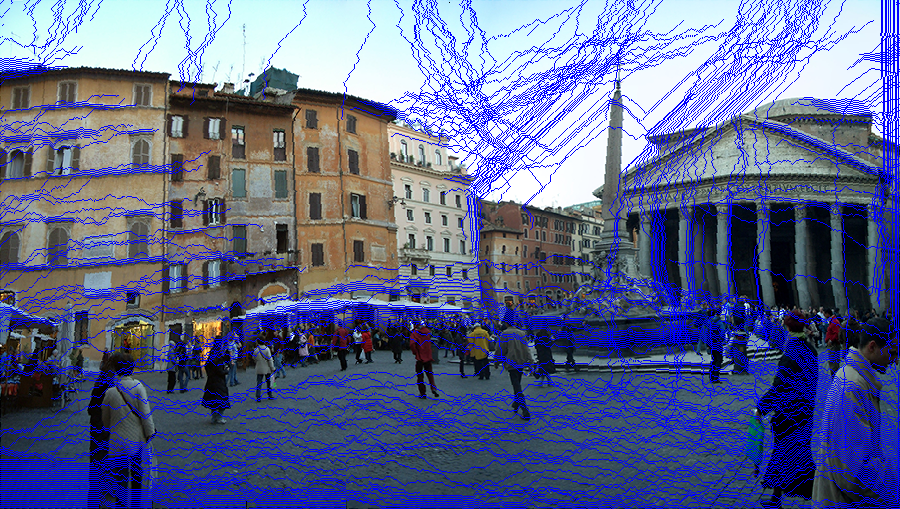
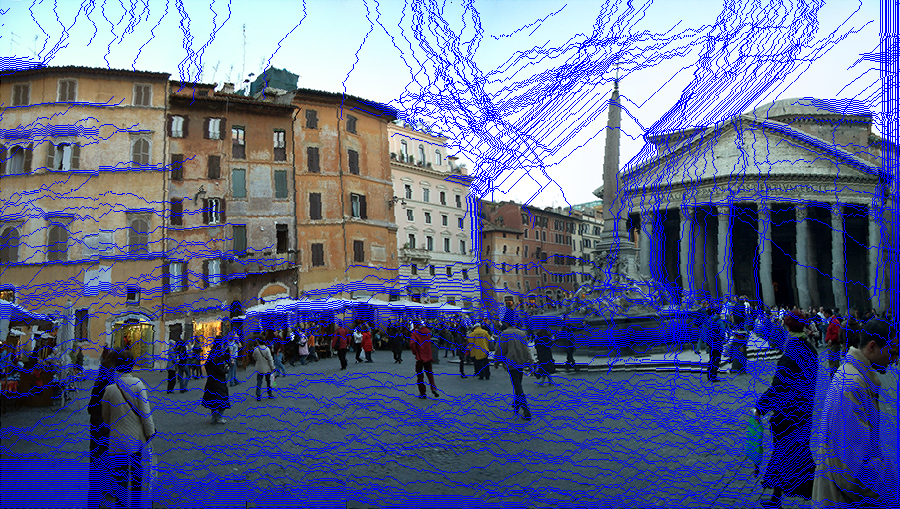
Version to be rewrite

diff --git a/opencv_tutorial/SeamCarving.cpp b/opencv_tutorial/SeamCarving.cpp
@@ -1,5 +1,5 @@
 #include "SeamCarving.h"
-const int MAX_COST = 1e6;
+const int MAX_COST = 1e5;
 
 SeamCarving::SeamCarving(Mat& _image, Mat& _mask) :image(_image), mask(_mask)
 {
@@ -229,6 +229,59 @@ void SeamCarving::calcCost(BoundarySegment boundarySegment)
 	float tempLeftCost, tempUpCost, tempRightCost;
 	int left, right, upLeft, upRight, up;
 	for (int i = begin; i < end + 1; i++) {
+		if (i == 0) {
+			for (int j = 0; j < cols; j++) {
+				neighborIndexArray[j][0] = left;
+				if ((expandMaskArray[i * cols + j] & directionMask) == 0) {
+					left = j;
+				}
+				neighborIndexArray[cols - 1 - j][1] = right;
+				if ((expandMaskArray[i * cols + cols - 1 - j] & directionMask) == 0) {
+					right = cols - 1 - j;
+				}
+			}
+			for (int j = 0; j < cols; j++) {
+				if ((expandMaskArray[i * cols + j] & directionMask) != 0) {
+					continue;
+				}
+				left = neighborIndexArray[j][0];
+				right = neighborIndexArray[j][1];
+				if (left < 0) {
+#ifdef USE_RGB
+						temp = expandImage.at<Vec3b>(i, right) - expandImage.at<Vec3b>(i, left + 1);
+						tempUpCost = abs(temp[0]) + abs(temp[1]) + abs(temp[2]);
+#endif // USE_RGB
+#ifdef USE_GRAY
+						tempUpCost = abs(expandGrayArray[i * cols + right] - expandGrayArray[i * cols + left]);
+#endif // USE_GRAY
+						mArray[i * cols + j] = tempUpCost;
+				}
+				else if (right >= cols) {
+#ifdef USE_RGB
+						temp = expandImage.at<Vec3b>(i, right - 1) - expandImage.at<Vec3b>(i, left);
+						tempUpCost = abs(temp[0]) + abs(temp[1]) + abs(temp[2]);
+#endif // USE_RGB
+#ifdef USE_GRAY
+						tempUpCost = abs(expandGrayArray[i * cols + right] - expandGrayArray[i * cols + left]);
+#endif // USE_GRAY
+						mArray[i * cols + j] = tempUpCost;
+				}
+				else {
+#ifdef USE_RGB
+						temp = expandImage.at<Vec3b>(i, right) - expandImage.at<Vec3b>(i, left);
+						tempUpCost = abs(temp[0]) + abs(temp[1]) + abs(temp[2]);
+#endif // USE_RGB
+#ifdef USE_GRAY
+						tempUpCost = abs(expandGrayArray[i * cols + right] - expandGrayArray[i * cols + left]);
+#endif // USE_GRAY
+						mArray[i * cols + j] = tempUpCost;
+				}
+				if (expandMaskArray[i * cols + j] == 0) {
+					mArray[i * cols + j] += MAX_COST;
+				}
+			}
+			continue;
+		}
 		left = upLeft = -1;
 		right = upRight = cols;
 		for (int j = 0; j < cols; j++) {
@@ -251,11 +304,13 @@ void SeamCarving::calcCost(BoundarySegment boundarySegment)
 		}
 		for (int j = 0; j < cols; j++) {
 			up = j;
+			upLeft = neighborIndexArray[j][2];
+			upRight = neighborIndexArray[j][3];
 			if ((expandMaskArray[(i-1) * cols + j] & directionMask) != 0) {
 				upLeft = neighborIndexArray[j][2];
 				upRight = neighborIndexArray[j][3];
-				if ((up - upLeft) < (upRight - up)){
-					if (upLeft > 0 && neighborIndexArray[upLeft][2] >= 0) {
+				if (neighborIndexArray[up][0] == -1) {
+					if (upLeft >= 0) {
 						up = upLeft;
 						upLeft = neighborIndexArray[upLeft][2];
 					}
@@ -263,8 +318,9 @@ void SeamCarving::calcCost(BoundarySegment boundarySegment)
 						up = upRight;
 						upRight = neighborIndexArray[upRight][3];
 					}
-				} else if ((up - upLeft) > (upRight - up)){
-					if (upRight < cols - 1 && neighborIndexArray[upRight][3] < cols) {
+				}
+				else if (neighborIndexArray[up][1] == cols) {
+					if (upRight < cols) {
 						up = upRight;
 						upRight = neighborIndexArray[upRight][3];
 					}
@@ -273,70 +329,53 @@ void SeamCarving::calcCost(BoundarySegment boundarySegment)
 						upLeft = neighborIndexArray[upLeft][2];
 					}
 				}
+				else {
+					int diffLeft = up - upLeft;
+					int diffRight = upRight - up;
+					while (diffLeft == diffRight) {
+						diffLeft = neighborIndexArray[upLeft][2] - upLeft;
+						upLeft = neighborIndexArray[upLeft][2];
+						diffRight = neighborIndexArray[upRight][3] - upRight;
+						upRight = neighborIndexArray[upRight][3];
+					}
+					upLeft = neighborIndexArray[up][2];
+					upRight = neighborIndexArray[up][3];
+					if (diffLeft < diffRight) {
+						if (upLeft > 0 && neighborIndexArray[upLeft][2] >= 0) {
+							up = upLeft;
+							upLeft = neighborIndexArray[upLeft][2];
+						}
+						else {
+							up = upRight;
+							upRight = neighborIndexArray[upRight][3];
+						}
+					}
+					else {
+						if (upRight < cols - 1 && neighborIndexArray[upRight][3] < cols) {
+							up = upRight;
+							upRight = neighborIndexArray[upRight][3];
+						}
+						else {
+							up = upLeft;
+							upLeft = neighborIndexArray[upLeft][2];
+						}
+					}
+				}
 			}
+			neighborIndexArray[j][2] = upLeft;
+			neighborIndexArray[j][3] = upRight;
+			neighborIndexArray[j][4] = up;
 		}
 		for (int j = 0; j < cols; j++) {
 			if ((expandMaskArray[i * cols + j] & directionMask) != 0) {
 				continue;
 			}
-			if (i == 0) {
-				continue;
-			}
-			upLeft = upRight = up = j;
-			left = j - 1;
-			right = j + 1;
-			while (left >= 0 && (expandMaskArray[i * cols + left] & directionMask) != 0) {
-				left--;
-			}
-			while (right < cols && (expandMaskArray[i * cols + right] & directionMask) != 0) {
-				right++;
-			}
-			while (upLeft >= 0 && (expandMaskArray[(i - 1) * cols + upLeft] & directionMask) != 0) {
-				upLeft--;
-			}
-			while (upRight < cols && (expandMaskArray[(i - 1) * cols + upRight] & directionMask) != 0) {
-				upRight++;
-			}
-			if (upLeft == upRight) {
-				upLeft--;
-				upRight++;
-				while (upLeft >= 0 && (expandMaskArray[(i - 1) * cols + upLeft] & directionMask) != 0) {
-					upLeft--;
-				}
-				while (upRight < cols && (expandMaskArray[(i - 1) * cols + upRight] & directionMask) != 0) {
-					upRight++;
-				}
-			}
-			else if ((up - upLeft) < (upRight - up)) {
-				up = upLeft;
-				upLeft--;
-				while (upLeft >= 0 && (expandMaskArray[(i - 1) * cols + upLeft] & directionMask) != 0) {
-					upLeft--;
-				}
-			}
-			else {
-				up = upRight;
-				upRight++;
-				while (upRight < cols && (expandMaskArray[(i - 1) * cols + upRight] & directionMask) != 0) {
-					upRight++;
-				}
-			}
-			while (upRight >= cols) {
-				upRight = up;
-				up = upLeft;
-				upLeft--;
-				while (upLeft >= 0 && (expandMaskArray[(i - 1) * cols + upLeft] & directionMask) != 0) {
-					upLeft--;
-				}
-			}
-			while (upLeft < 0) {
-				upLeft = up;
-				up = upRight;
-				upRight++;
-				while (upRight < cols && (expandMaskArray[(i - 1) * cols + upRight] & directionMask) != 0) {
-					upRight++;
-				}
-			}
+			upLeft = neighborIndexArray[j][2];
+			upRight = neighborIndexArray[j][3];
+			up = neighborIndexArray[j][4];
+			left = neighborIndexArray[j][0];
+			right = neighborIndexArray[j][1];
+
 			assert(up >= 0 && up < cols);
 			if (left < 0) {
 				if (upRight >= cols) {
@@ -507,6 +546,7 @@ void SeamCarving::calcCost(BoundarySegment boundarySegment)
 			if (expandMaskArray[i * cols + j] == 0) {
 				mArray[i * cols + j] += MAX_COST;
 			}
+			assert((expandMaskArray[(i - 1) * cols + routeArray[i * cols + j]] & directionMask) == 0);
 			assert(routeArray[i * cols + j] >= 0 && routeArray[i * cols + j] < cols);
 		}
 	}
@@ -514,11 +554,12 @@ void SeamCarving::calcCost(BoundarySegment boundarySegment)
 
 void SeamCarving::showCost(BoundarySegment boundarySegment)
 {
-	Mat tempImage = image.clone();
+	Mat tempImage;
+	image.copyTo(tempImage);
 	int begin = boundarySegment.begin, end = boundarySegment.end;
 	int min = 0;
-	double temp = mArray[end * cols];
-	for (int i = 1; i < cols; i++) {
+	double temp = 1e9;
+	for (int i = 0; i < cols; i++) {
 		if ((expandMaskArray[end * cols + i] & directionMask) == 0 && mArray[end * cols + i] < temp) {
 			min = i;
 			temp = mArray[end * cols + i];
@@ -526,6 +567,8 @@ void SeamCarving::showCost(BoundarySegment boundarySegment)
 	}
 	if (boundarySegment.direction == Bottom || boundarySegment.direction == Right) {
 		for (int i = end; i >= begin; i--) {
+			assert((expandMaskArray[i * cols + min] & directionMask) == 0);
+
 			assert(min >= 0 && min < cols);
 			tempImage.at<Vec3b>(i, min) = Vec3b(0, 255, 0);
 			min = routeArray[i * cols + min];
@@ -534,6 +577,8 @@ void SeamCarving::showCost(BoundarySegment boundarySegment)
 	}
 	else {
 		for (int i = end; i >= begin; i--) {
+			assert((expandMaskArray[i * cols + min] & directionMask) == 0);
+
 			assert(min >= 0 && min < cols);
 			tempImage.at<Vec3b>(i, min) = Vec3b(0, 255, 0);
 			min = routeArray[i * cols + min];

diff --git a/opencv_tutorial/main.cpp b/opencv_tutorial/main.cpp
@@ -13,8 +13,8 @@ int main(int argc, const char* argv[])
 	//	std::cout << "Please enter the file name." << endl;
 	//	return 1;
 	//}
-	string maskFilename = "pano-mask-6.png";
-	string imageFilename = "pano-6.png";
+	string maskFilename = "pano-mask-test.png";
+	string imageFilename = "pano-test.png";
 	Mat image = imread(imageFilename);
 	Mat mask = imread(maskFilename, IMREAD_GRAYSCALE);
 	SeamCarving sc(image, mask);
@@ -53,7 +53,7 @@ int main(int argc, const char* argv[])
 	//sc.getLongestBoundary();
 
 
-	namedWindow("seam", WINDOW_AUTOSIZE | WINDOW_KEEPRATIO | WINDOW_GUI_EXPANDED);
+	//namedWindow("seam", WINDOW_AUTOSIZE | WINDOW_KEEPRATIO | WINDOW_GUI_EXPANDED);
 	while (bs.direction != None) {
 		bs.print();
 		sc.calcCost(bs);
